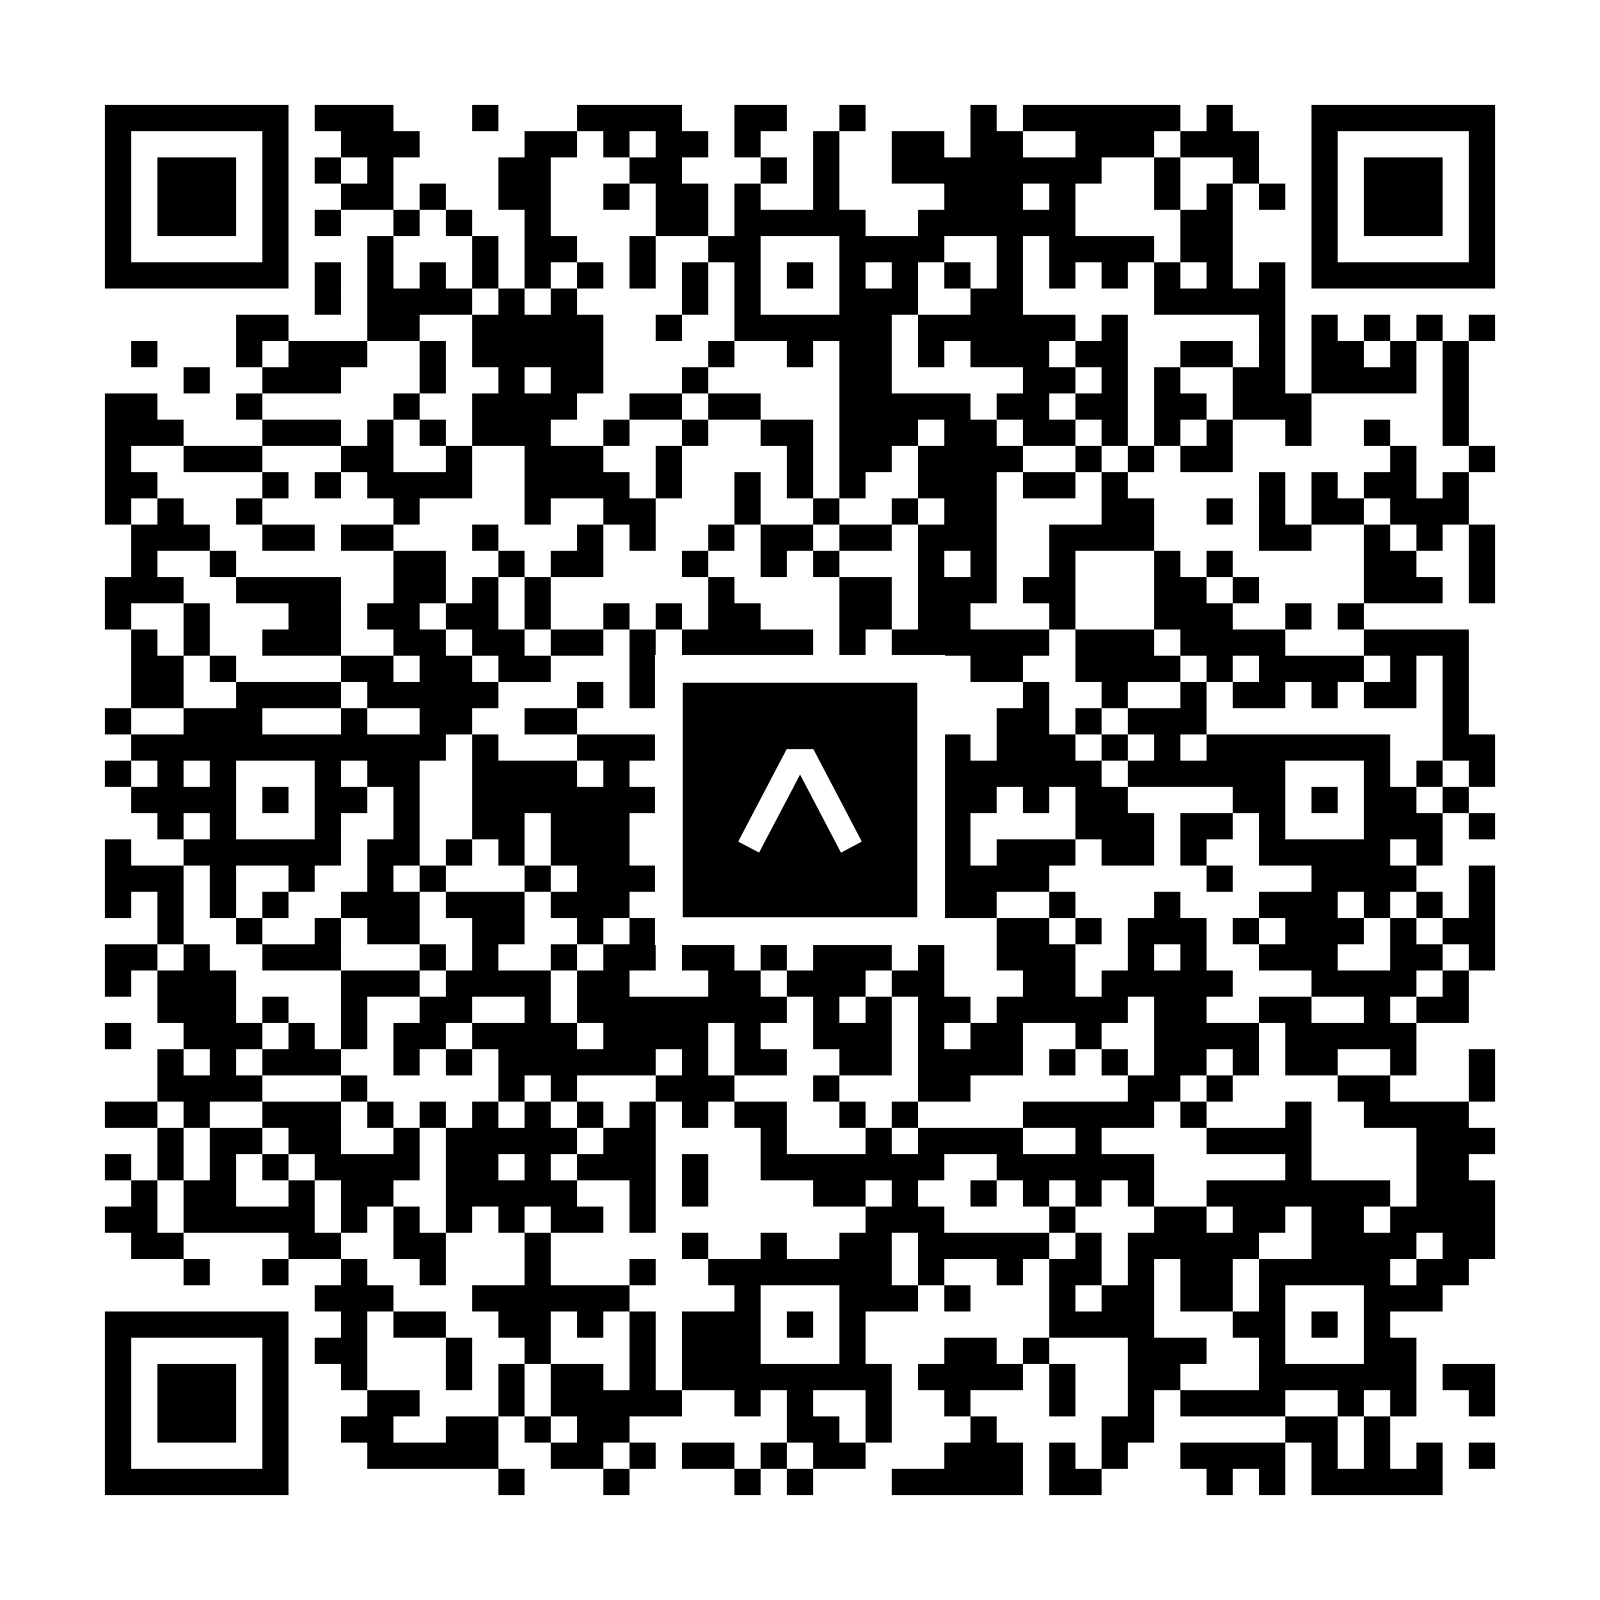
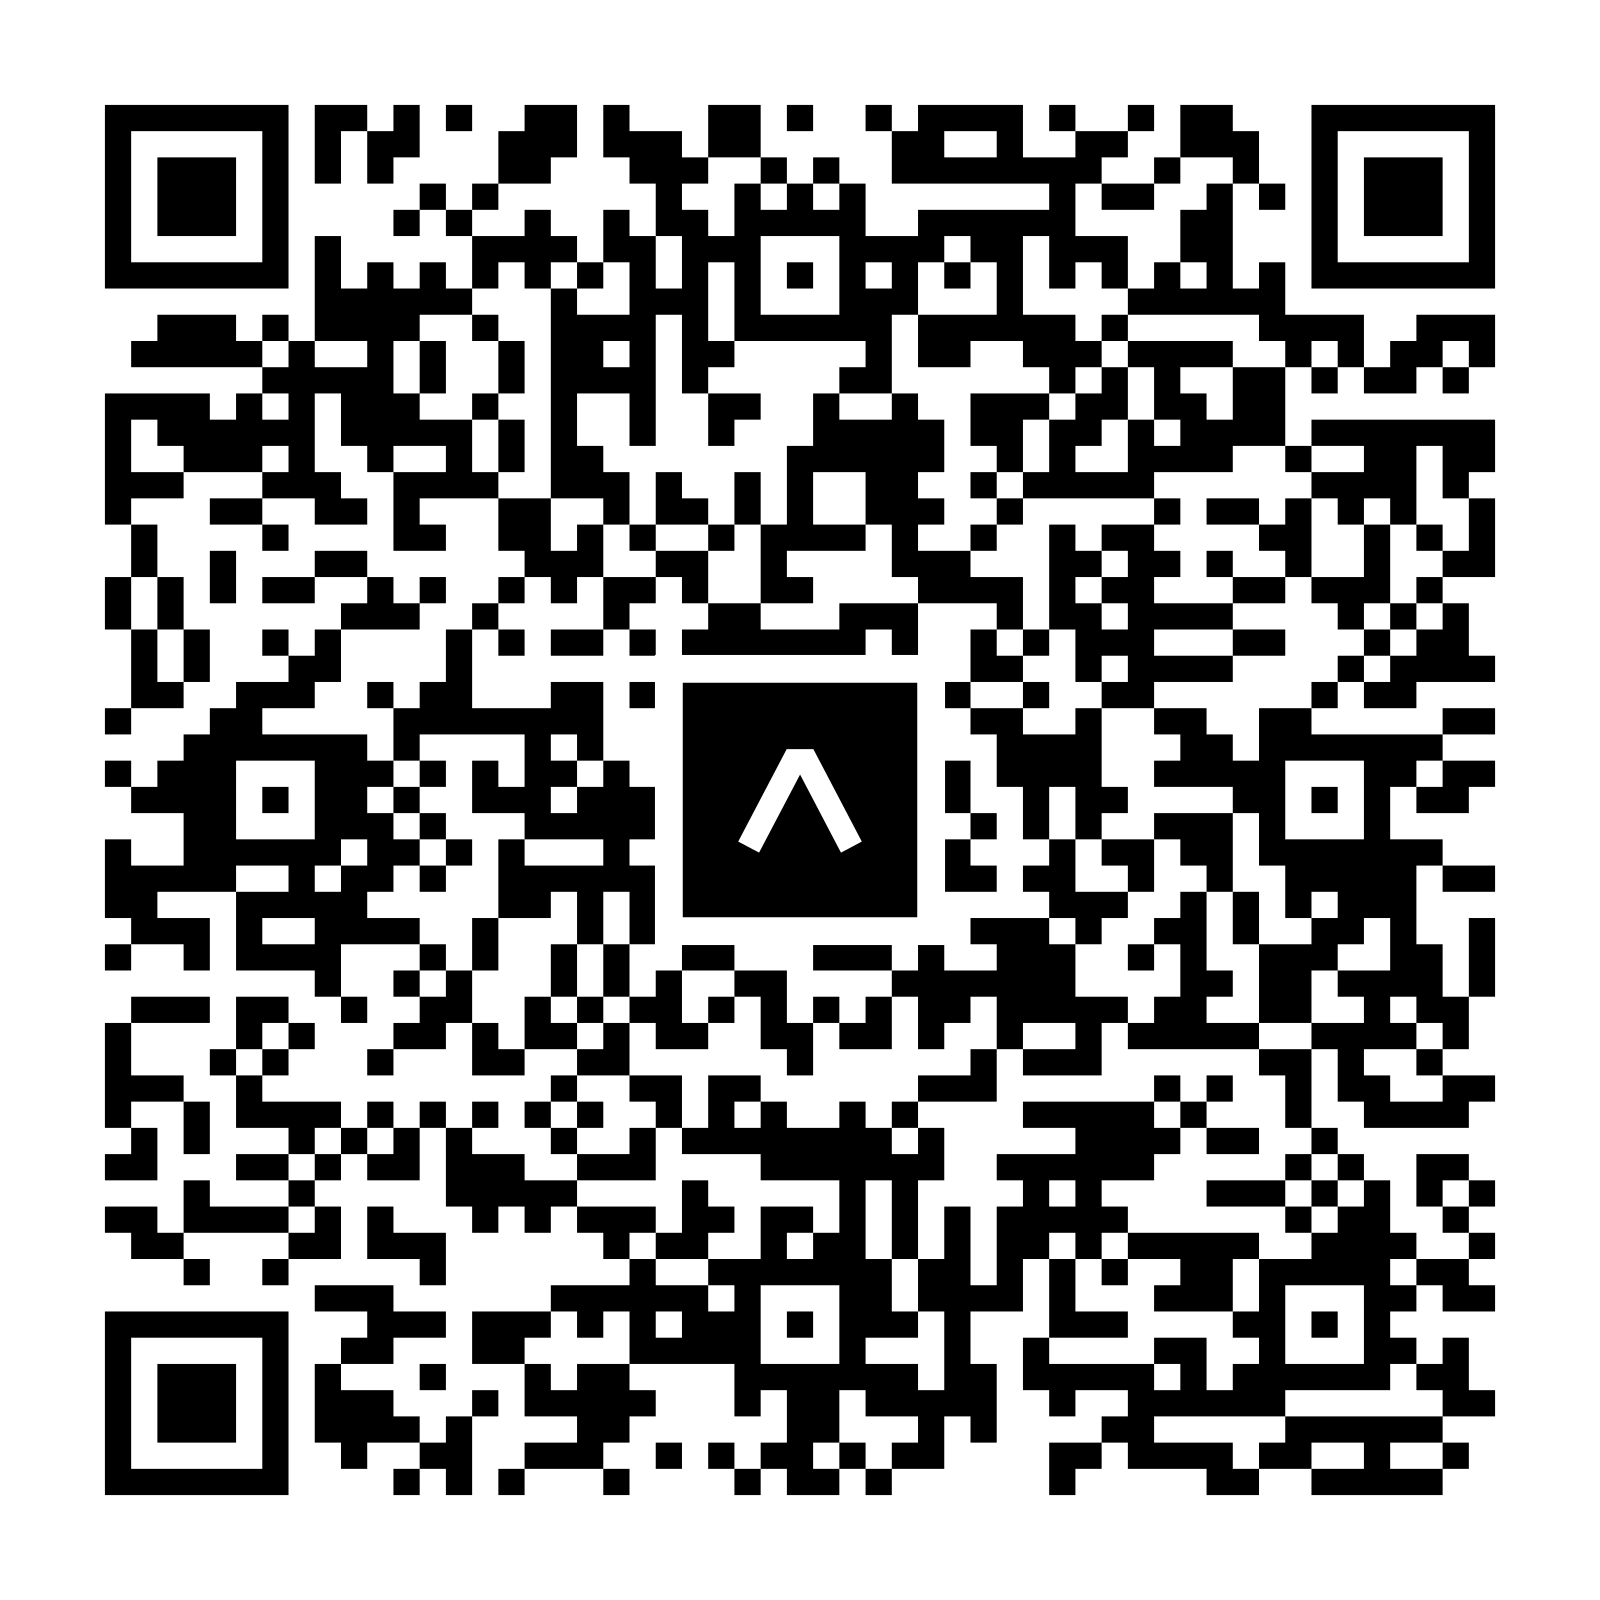
se-termino

Changed region(s): [[0.0625, 0.0625, 0.9375, 0.9375], [0.0625, 0.3438, 0.0938, 0.375]]

diff --git a/index.html b/index.html
@@ -19,7 +19,7 @@
       <h1 class="hero-title" id="descargar123">📱 SEFY App</h1>
       <p class="hero-subtitle">Gestión inteligente de empleados en obras de construcción</p>
       <div class="btn-group mt-4 flex-wrap">
-        <a href="https://expo.dev/artifacts/eas/3XgASthBsgAHcv9KnfbHVs.apk" class="btn btn-success btn-lg">⬇ Descargar APK</a>
+        <a href="https://expo.dev/artifacts/eas/jVj8XC67sTmwBLtzymUjmV.apk" class="btn btn-success btn-lg">⬇ Descargar APK</a>
         <button class="btn btn-info btn-lg" data-bs-toggle="modal" data-bs-target="#qrModal">📷 Ver QR</button>
       </div>
     </div>
